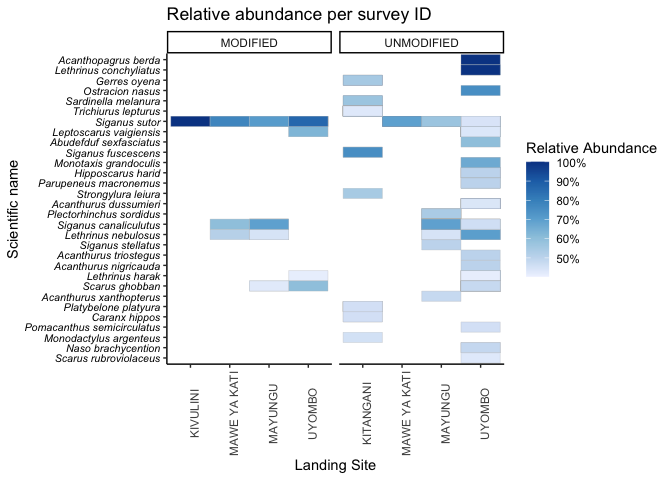
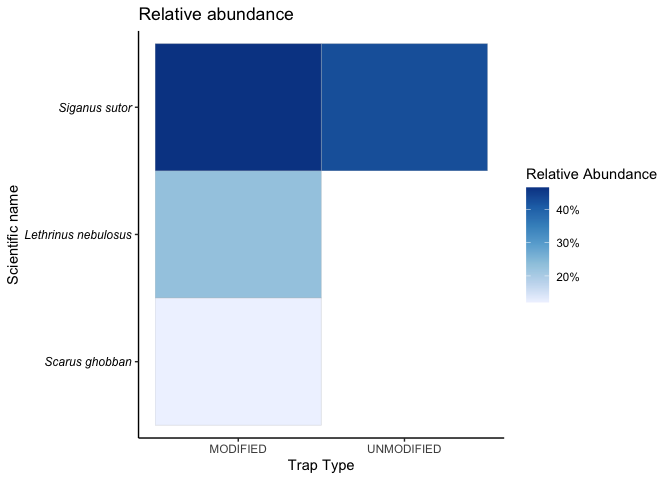
relative abundance

diff --git a/FishLandings/scripts/Relative-abundance-analysis.md b/FishLandings/scripts/Relative-abundance-analysis.md
@@ -44,15 +44,18 @@ df<- read_excel("data/Fishlandings-cleaned-21052022-May.xlsx") %>% #read in exce
   unite(survey_id, Operation_date, fisher_id, sep = "-", remove = FALSE) # creating a new variable called survey id
 
 data_matrix <- df %>% # modified original 
-  select(survey_id, scientific_name, number_of_fish) %>% group_by(survey_id, scientific_name) %>% # selecting only desired columns for matrix
+  select(trap_type, scientific_name, number_of_fish) %>% # selecting only desired columns for matrix
+  subset(trap_type == "UNMODIFIED" | trap_type == "MODIFIED") %>%
+  filter(!is.na(number_of_fish)) %>%
+  group_by(scientific_name, trap_type) %>% 
   mutate(number_corrected = sum(number_of_fish)) %>% ungroup() %>% # calculating total number of that fish per survey id
   select(-number_of_fish) %>% distinct() %>% # removing original count column and taking out repetitive rows 
   spread(scientific_name, number_corrected) %>% # creating matrix from fish name and number columns
-  column_to_rownames(var="survey_id") # moving survey id column to row names 
+  column_to_rownames(var="trap_type") # moving survey id column to row names 
 
 data_matrix[is.na(data_matrix)] <- 0 #changing NAs to zeros 
 
-meta <- df %>% select(survey_id, trap_type, landing_site) %>% distinct()
+#meta <- df %>% select(survey_id, trap_type, landing_site) %>% distinct()
 ```
 
 # Relative abundance
@@ -68,28 +71,28 @@ rel <- as.data.frame(rel) # turning this back into a dataframe
 ## Combining back with metadata
 
 ``` r
-rel_meta <- tibble::rownames_to_column(rel, "survey_id")
-rel_meta <- merge(meta, rel_meta, by = "survey_id")
-rel_meta <- rel_meta %>% filter(!is.na(trap_type)) %>%
-  gather(key=scientific_name, value = relabund, 4:154) %>%
-  subset(trap_type == "MODIFIED" | trap_type == "UNMODIFIED") %>%
+rel_meta <- tibble::rownames_to_column(rel, "trap_type")
+#rel_meta <- merge(meta, rel_meta, by = "trap_type")
+rel_meta <- rel_meta %>% #filter(!is.na(trap_type)) %>%
+  gather(key=scientific_name, value = relabund, 2:122) %>%
+  #subset(trap_type == "MODIFIED" | trap_type == "UNMODIFIED") %>%
   filter(!is.na(relabund)) %>%
-  filter(relabund > 0.4)
+  filter(relabund > 0.1)
 ```
 
 ## Plotting
 
 ``` r
 rel_meta %>%
-  ggplot(., aes(x = landing_site, y = reorder(scientific_name,relabund))) + 
+  ggplot(., aes(x = trap_type, y = reorder(scientific_name, relabund))) + 
   geom_tile(aes(fill = relabund), color = "grey") +
-  ggtitle("Relative abundance per survey ID") +
+  ggtitle("Relative abundance") +
   scale_fill_distiller(palette = "Blues", direction=100, labels = scales::label_percent(scale=100)) + 
   theme_classic() +
-  theme(axis.text.x.bottom = element_text(angle = 90),
-        axis.text.y = element_text(colour = 'black', size = 8, face = 'italic')) + 
-  facet_grid(~trap_type, scales = "free",) +
-  labs(x="Landing Site", fill="Relative Abundance", y="Scientific name") 
+  theme(#axis.text.x.bottom = element_text(angle = 60, hjust=1),
+        axis.text.y = element_text(colour = 'black', size = 9, face = 'italic')) + 
+  #facet_grid(~trap_type, scales = "free",) +
+  labs(x="Trap Type", fill="Relative Abundance", y="Scientific name") 
 ```
 
 ![](Relative-abundance-analysis_files/figure-gfm/unnamed-chunk-5-1.png)<!-- -->

diff --git a/FishLandings/Results_report.md b/FishLandings/Results_report.md
@@ -4,7 +4,8 @@ Results written by Emma Strand based on FishLandings survey data from Kenya_Sama
 
 Scripts used:  
 - Quality Control: [QC.md](https://github.com/emmastrand/Kenya_SamakiSalama/blob/main/FishLandings/scripts/QC.md)    
-- Catch per unit effort and length/maturity analysis: [CUE-maturity-length-analysis.md](https://github.com/emmastrand/Kenya_SamakiSalama/blob/main/FishLandings/scripts/CUE-maturity-length-analysis.md)  
+- Catch per unit effort and length/maturity analysis: [CUE-maturity-length-analysis.md](https://github.com/emmastrand/Kenya_SamakiSalama/blob/main/FishLandings/scripts/CUE-maturity-length-analysis.md)      
+- Relative abundance: [Relative-abundance-analysis.md]()  
 
 ### Summary on quality control (QC.md)
 
@@ -105,6 +106,8 @@ Goal: Length frequency of top 3-5 species in modified versus traditional (differ
 
 [Link to this portion of the script](https://github.com/emmastrand/Kenya_SamakiSalama/blob/main/FishLandings/scripts/CUE-maturity-length-analysis.md#-length-frequency-plots-of-top-species)
 
+Dotted line = Lm range (i.e. Lm = 11.5; Lm range = 11-15). Our length data is in bins so I could only plot this as a bin too.
+
 ![](https://github.com/emmastrand/Kenya_SamakiSalama/raw/main/FishLandings/scripts/CUE-maturity-length-analysis_files/figure-gfm/unnamed-chunk-18-1.png)
 
 ## Catch and length data of mature fish
@@ -112,3 +115,11 @@ Goal: Length frequency of top 3-5 species in modified versus traditional (differ
 Goal: Average length of catch versus length at first maturity (Lmat). Take the difference for each fish in the data against its length at first maturity and then calculate a weighted value for modified versus traditional traps where a value above 0 represents a fish above Lmat and a value below represents a fish below Lmat.
 
 We only have bins for the length values.. so this might have to be by 5s. i.e. catch = 11-15; Lm 21-25. Can take median values and do that calculation?
+
+## Relative abundance plots
+
+In progress.. The output isn't what I expect (should be more than 3 on the y axis?) so trying to troubleshoot this.
+
+[Code]()
+
+![]()
